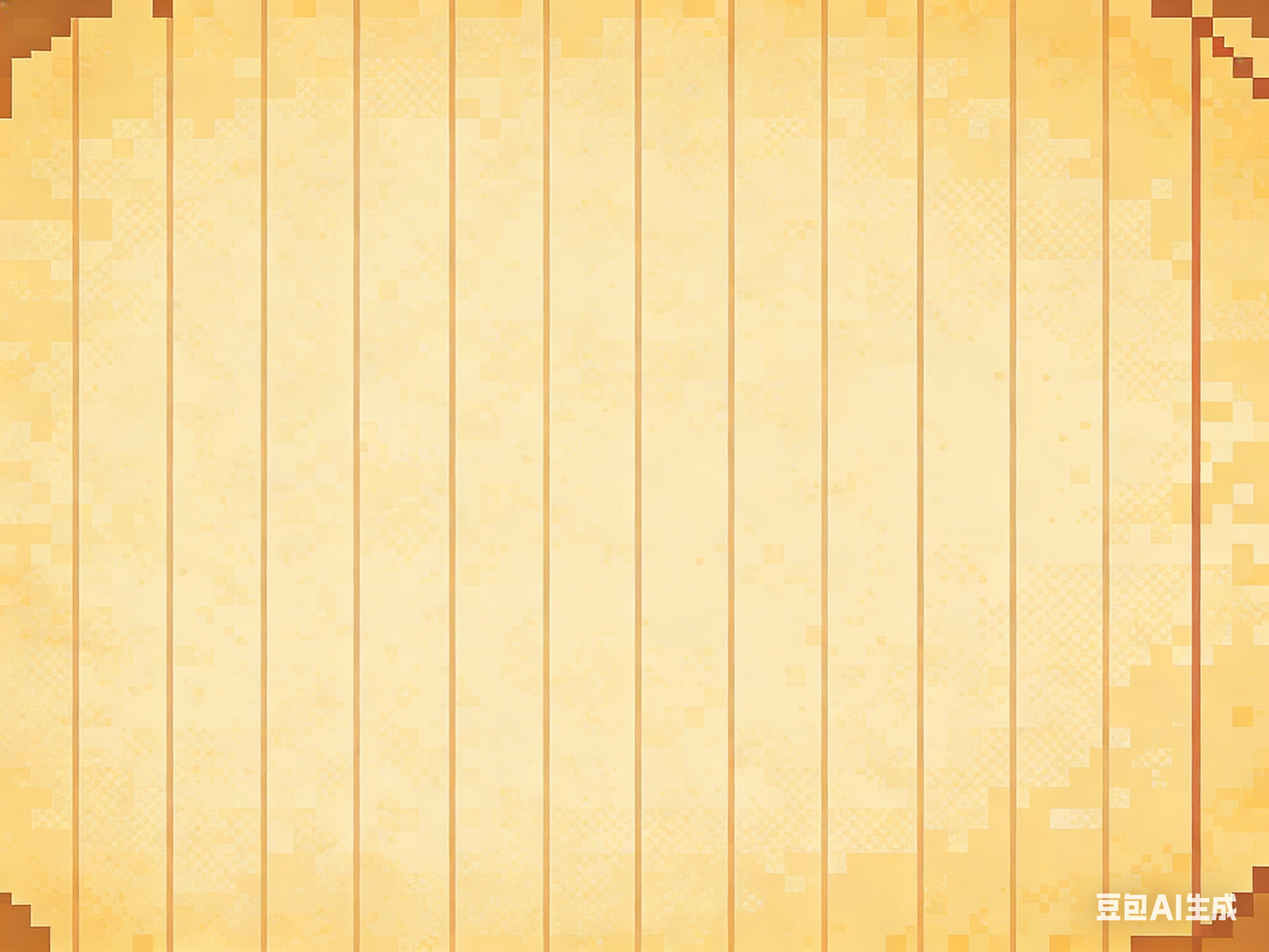
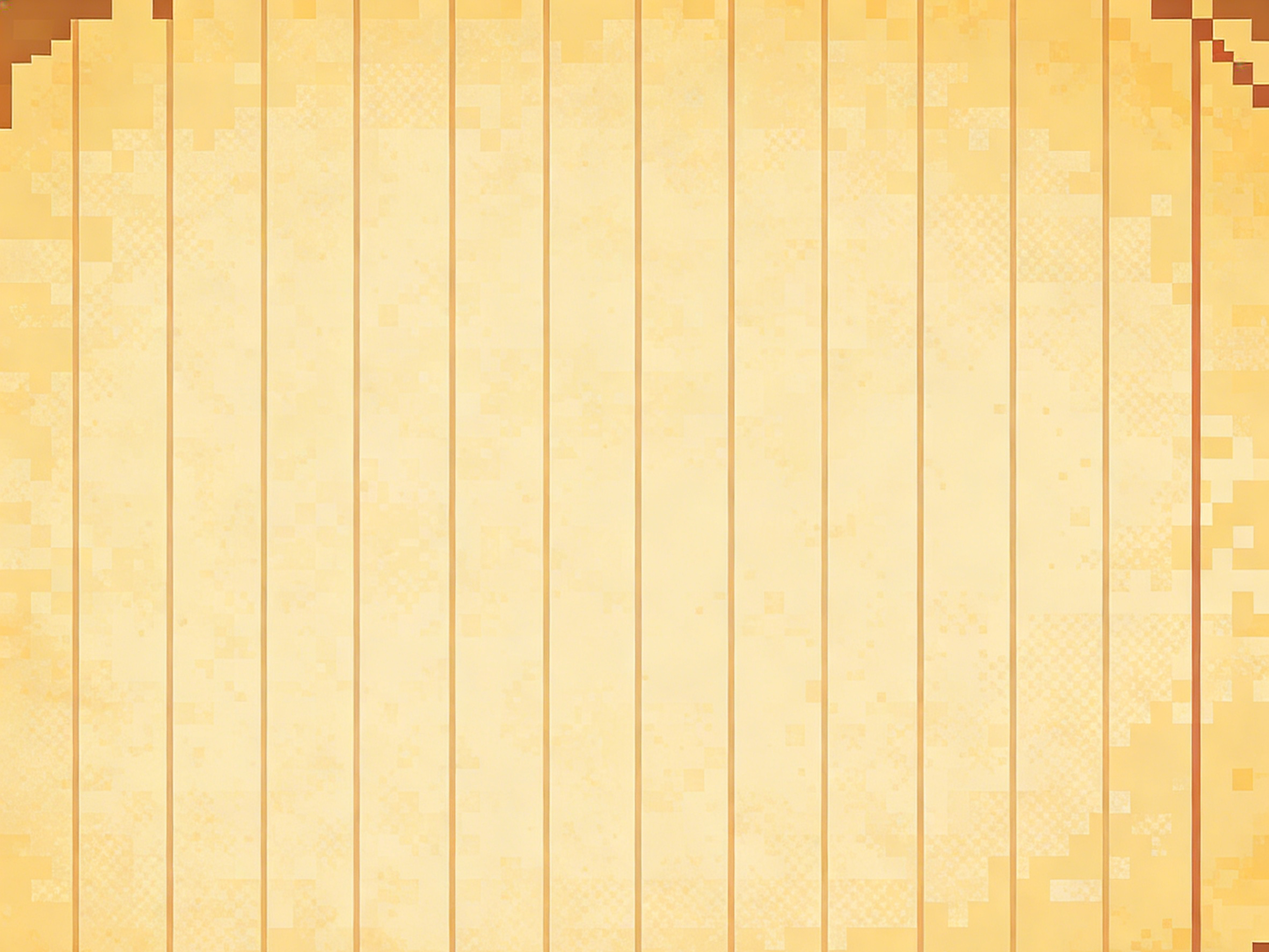
art: 清除三张底图的「豆包AI生成」水印（裁底带 + 等比缩放回原尺寸）
做法：裁掉含水印的底带后 Image.resize(LANCZOS) 缩回原尺寸 ——
输出尺寸与宽高比不变 ⇒ TextureRect 缩放比不变、槽位矩形不变、锚点无需改动。
（实测栏线最大偏差 0.003≈7px，平均栏距 175.11 vs 174.09，12 栏 CV 2.1%）

  main.png     裁 y>=1380（去 10.10%）
  main_bg.png  裁 y>=1380（去 10.10%）
  letter.png   裁 y>=1630（去 8.07%）

未采用的两条路线（都实测过，不可行）：
- 直接裁掉底带：改变图片尺寸 → 等比缩放比变化 → 槽位锚点全部失效
- 局部修补/向下延展画布：letter.png 右下角是设计好的像素风阶梯边框，
  水印横跨它，周边行离散度 sigma≈17（非均匀纸面），没有可复制的水印下内容

遗留代价：画面纵向拉伸 8-10%（肉眼几乎不可辨）；彻底解决仍应重生成无水印原图。

工具与文档：
- 新增 tools/wm_clean.gd（去水印标准工具）、tools/probe_geom.gd（量绘制区/槽位几何）
- ART_PLAN.md 记录路线、裁剪点、误报说明与遗留代价
- AI_PLAYBOOK 第 16-17 条：GDScript 同作用域变量重名（并致 --script 挂住）；
  同尺寸改写图片时 Godot 不重新导入（新旧字节数完全相同 → .ctex 仍是旧像素）

diff --git a/docs/ART_PLAN.md b/docs/ART_PLAN.md
@@ -51,6 +51,33 @@
 
 ⚠ 检测器只针对**白色/近白文字**（判据：近白低饱和分割 + 同基线字形行 ≥3 个 + 与局部背景反差 ≥0.8×阈值）。深色、彩色或极低对比水印可能漏检，重要素材仍须人眼复核。
 
+### ✅ 三张底图水印已清除（2026-10-11 完成，替代"P0 重生成"）
+
+**采用路线：裁掉含水印的底带 → 等比缩放回原尺寸。**
+输出尺寸与宽高比都不变 ⇒ **TextureRect 缩放比不变、槽位矩形不变、锚点无需改动**
+（实测栏线位置最大偏差 0.003 ≈ 7px，平均栏距 175.11 vs 174.09）。
+
+| 底图 | 裁剪点 | 去掉高度 | 结果 |
+|---|---|---|---|
+| `main.png` | `y=1380` | 10.10% | `art_check watermark --scan` → ✅ 未检出 |
+| `main_bg.png` | `y=1380` | 10.10% | ✅ 未检出（**注意**：清理后会新报一处 `[1928,479..1983,516]`，目视复核为**误报** —— 那是集市摊位里的人与货，不是水印） |
+| `letter.png` | `y=1630` | 8.07% | ✅ 未检出；栏线重测 12 栏、CV 2.1%，锚点沿用 |
+
+**为什么不用另外两种做法**（都实测过，均不可行）：
+
+- **直接裁掉底带**：会改变图片尺寸 → 等比缩放比变化 → 槽位锚点全部失效（还得连横向一起重算）。
+- **局部修补 / 向下延展画布**：`letter.png` 右下角是**设计好的像素风阶梯边框**（棕色层级块 + 竖栏），
+  水印正好横跨它，且周边各行横向离散度 σ≈17（不是均匀纸面）—— 没有可复制的水印下内容，必然留痕。
+
+**工具**：`tools/wm_clean.gd`（`--crop-through Y --out <路径>`，先裁再用 `Image.resize` LANCZOS 缩回原尺寸）。
+
+⚠ **重跑必须强制重导**：新旧 PNG 若**尺寸与字节数相同**（本次 letter.png 都是 3,838,386 B），
+Godot 会认为"没变"而**不重新导入**，`.ctex` 仍是旧像素。判据：贴图尺寸/mtime 相同就删掉
+`.godot/imported/<图>-<哈希>.ctex` 与 `.md5` 再跑 `--import`。详见 `AI_PLAYBOOK.md` 第 17 条。
+
+**遗留代价（需要知道）**：画面纵向被拉伸约 8–10%（顶部内容略微上移放大）。
+本次三张图肉眼几乎不可辨；**若日后要彻底去掉这个代价，仍应重生成无水印原图**（提示词见 `data/art_prompts_round*.json`）。
+
 ## 四、信纸底图网格规格（关键）
 
 书写槽位锚定依赖底图印刷线位置（本次对齐 bug 的教训）。替换 `letter.png` 时必须满足：

diff --git a/docs/AI_PLAYBOOK-DETAILS.md b/docs/AI_PLAYBOOK-DETAILS.md
@@ -241,6 +241,25 @@ GDScript 一个函数作用域内**不允许同名变量**（哪怕在不同 `if
 顺带：这类"脚本解析失败"会让 `--script` **不执行也不 `quit()`**，
 表现为命令**挂住不退出** —— 所以跑探针脚本要带超时，别干等。
 
+### 17. 同尺寸改写图片 → Godot 不重新导入（2026-10-11 实测）
+
+**场景**：给三张底图去水印，做法是"裁掉含水印的底带 → 等比缩放回原尺寸"（这样几何不变、锚点不用动）。
+把清理后的 `letter.png` 覆盖进 `assets/images/backgrounds/`，跑 `--import`（无错误），
+再跑 `tools/probe_geom.gd` 量贴图 —— **贴图尺寸与绘制区完全没变**（`texture size = (2364,1773)`、
+绘制区 `y 20.1..575.9`、缩放 `0.3135`），看起来像"新图没生效"。
+
+**根因**：新旧文件的**尺寸相同、字节数也完全相同**（都是 `3,838,386 B`）——
+`Image.resize` 回原尺寸后 PNG 压缩结果碰巧同长。Godot 的导入器据此认为资源没变，**跳过了重新导入**，
+`.ctex` 里仍是旧像素。所以不是"覆盖失败"，而是"缓存没失效"。
+
+**修法**：删掉 `.godot/imported/<图名>-<哈希>.ctex` 与同名 `.md5`（必要时连 `.import` 一起删），
+再跑 `godot --headless --path . --import`。本次删后 `.ctex` 重建为 3115 KB，正常。
+
+**判据**：① **同尺寸改写图片后必须强制重导**，别信 `--import` 的"无错误"；
+② 验证要落到**渲染出来的图变了没有**（截图 + 水印扫描 + 几何探针），
+   只看导入命令退出码或文件 mtime 都会被骗；
+③ 反过来说：**尺寸变了反而更容易触发重导** —— "没报错"不等于"生效了"。
+
 ## 维护与导出
 
 ### 升级引擎（例如 4.7）—— 语料要跟着切分支

diff --git a/docs/AI_PLAYBOOK.md b/docs/AI_PLAYBOOK.md
@@ -127,6 +127,15 @@ Description → Properties → Methods → Signals → Enumerations → Constant
     `.import` 与 `.ctex` 都正常生成了。判据：**新增资源后先单独跑完一次 `--import`，
     再跑依赖它的脚本**；报"资源缺失"时先 `Test-Path` 核实 `.import`/`.ctex` 是否真的不在。
     （`--script` 模式本身不会触发导入 —— 见第 8 条。）
+16. （小）**GDScript 同作用域不允许变量重名**：写探针时先后声明两个 `var miss := ""`（一个在 `if`
+    分支里），报 `Parse Error: There is already a variable named "miss" declared in this scope.`
+    —— 哪怕在不同分支也算同一作用域。另：这类**解析失败会让 `--script` 既不执行也不 `quit()`**，
+    表现为命令**挂住不退出**，所以跑探针脚本要带超时。
+17. **改了图片内容但尺寸/字节数没变时，Godot 不会重新导入**：实测把 `letter.png` 换成"裁掉底带
+    再缩放回原尺寸"的版本 —— **尺寸相同（2364×1773）、字节数甚至完全相同（3,838,386 B）**，
+    于是 `--import` 报"无错误"却什么也没做，`.ctex` 仍是旧像素（探针量到的贴图尺寸/绘制区都没变）。
+    判据：**同尺寸改写图片后，必须删掉 `.godot/imported/<图>-<哈希>.ctex` 与 `.md5` 再 `--import`**；
+    验证要落到"渲染出来的图变了没有"，别只看导入命令的退出码。
 
 # 维护与导出
 
